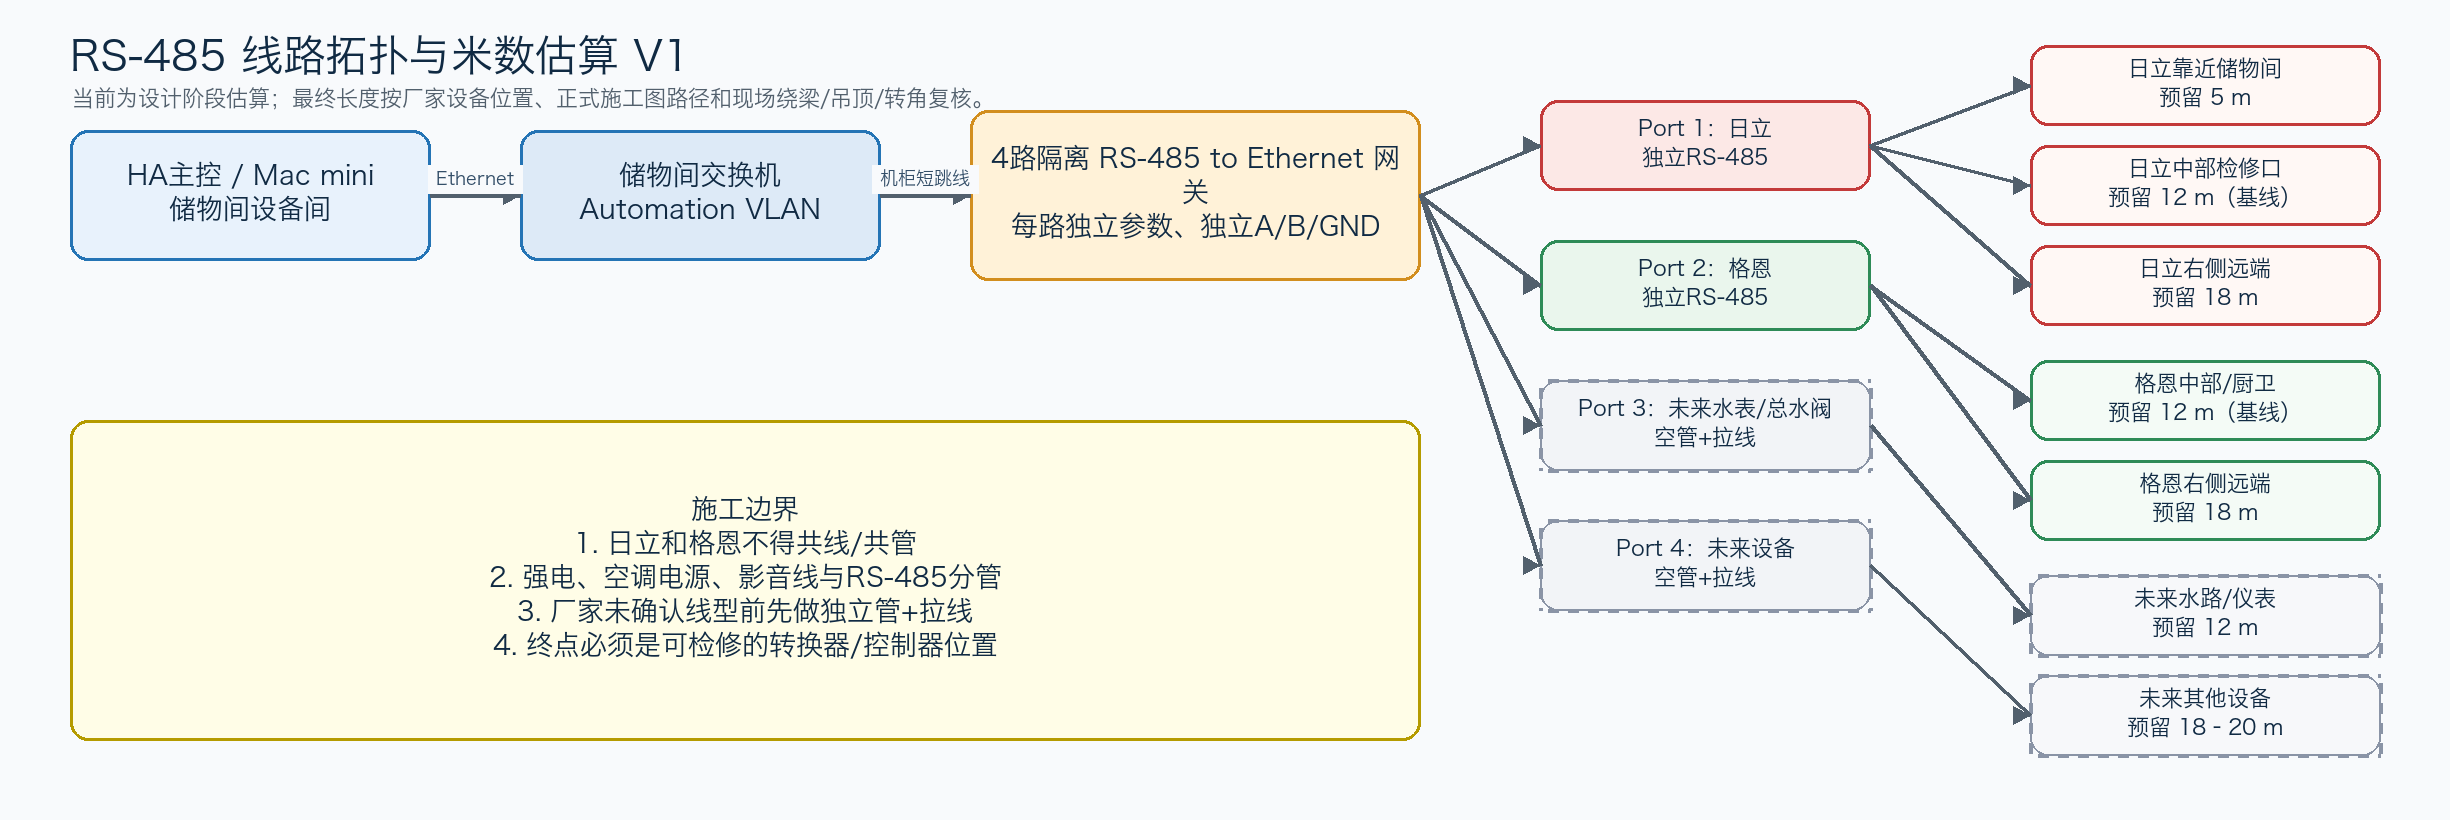
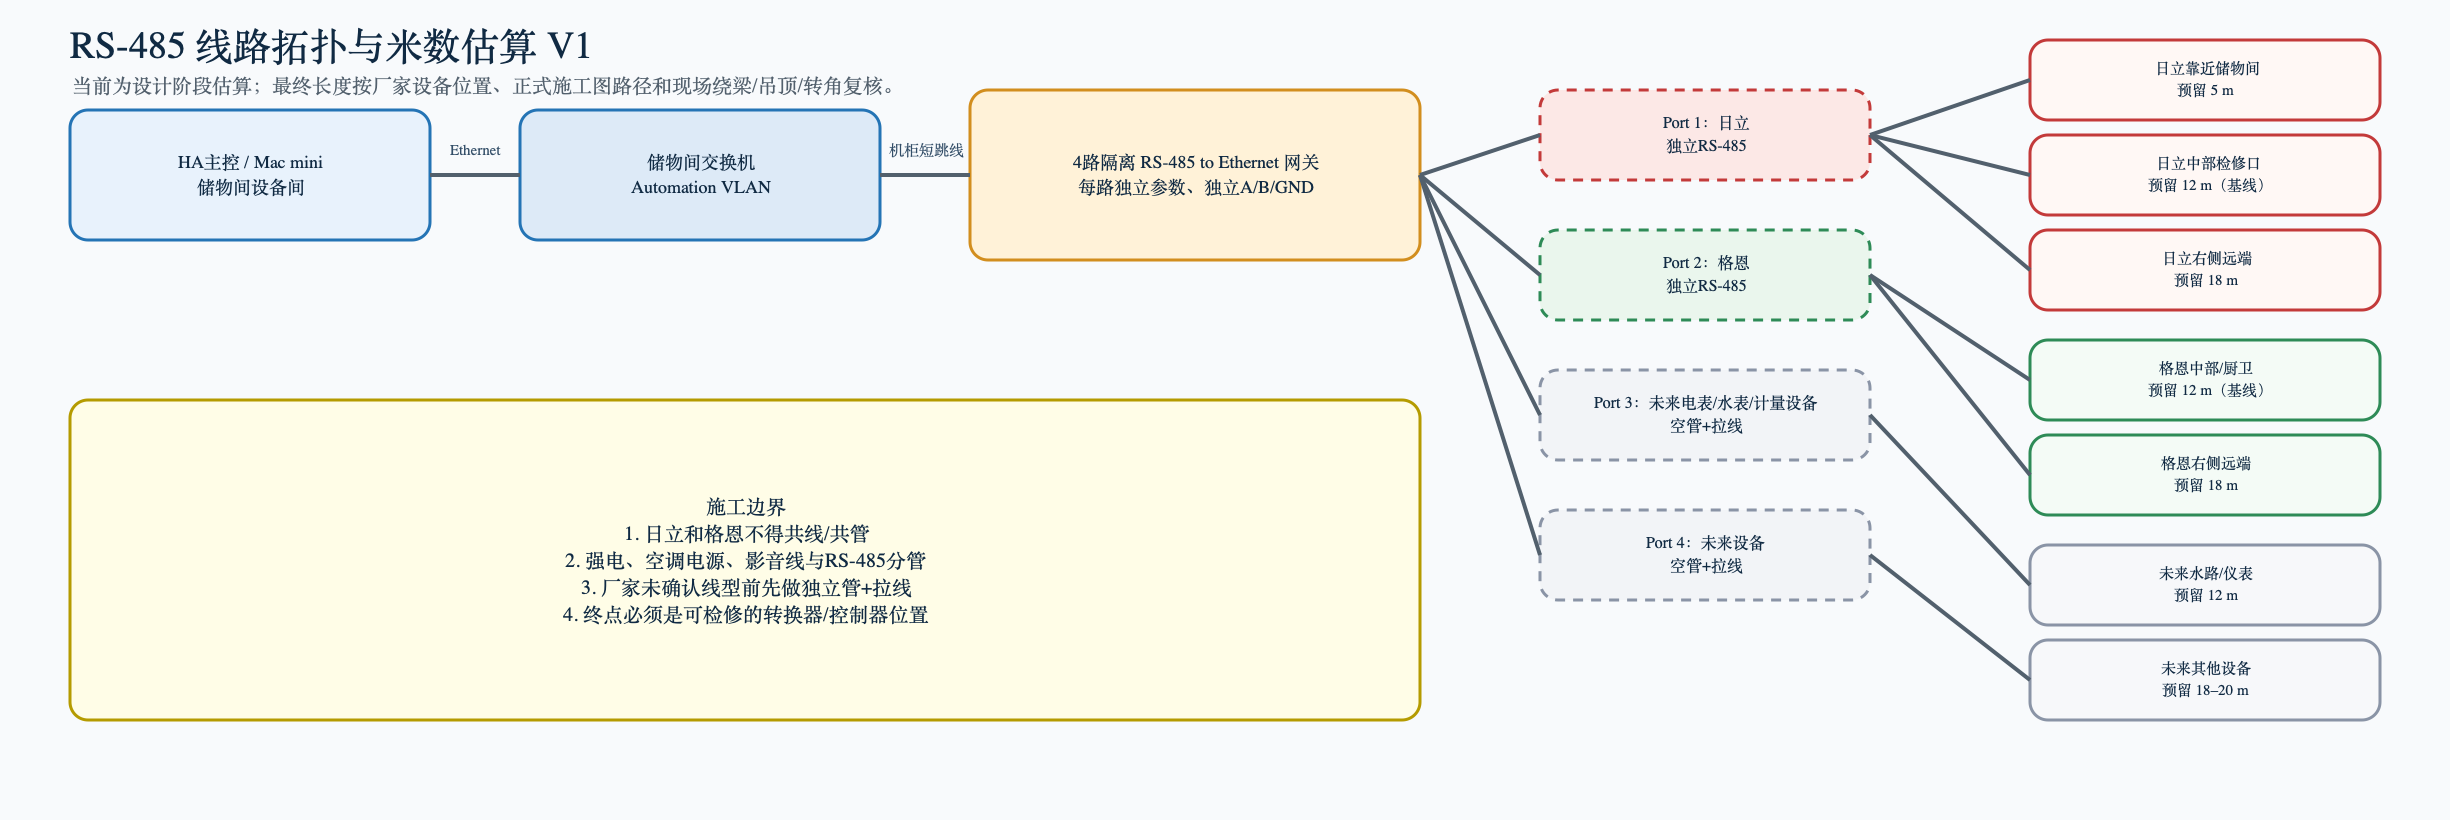
Clarify RS-485 meter reserve boundary

Changed region(s): [[0.031, 0.0305, 0.9927, 0.9451], [0.2171, 0.6098, 0.4033, 0.8232], [0.031, 0.8537, 0.5894, 0.9146]]

diff --git a/docs/current/RS485线路拓扑与米数估算_V1.md b/docs/current/RS485线路拓扑与米数估算_V1.md
@@ -18,7 +18,7 @@ Mac mini / Home Assistant
 4路隔离 RS-485 to Ethernet 网关
         ├─ Port 1：日立 Modbus/MiniModbus 转换器
         ├─ Port 2：格恩中央加湿控制器/主板
-        ├─ Port 3：未来电表/水表/总水阀预留
+        ├─ Port 3：未来 Modbus 电表/水表/计量设备预留
         └─ Port 4：未来大金/其他设备预留
 ```
 
@@ -66,7 +66,7 @@ RS-485 网关
 |---|---|---|---|---|---|
 | Port 1 | 日立中央空调 | 点表已取得；串口参数/地址/功能码待确认 | 储物间/新图衣帽间 RS-485 网关 | 日立协议转换器可检修位置 | 独立管线，只读调试优先 |
 | Port 2 | 格恩中央加湿 | 已知 RS-485 / Modbus RTU，9600 8N1；写功能码待确认 | 储物间/新图衣帽间 RS-485 网关 | 格恩控制器/主板可检修位置 | 独立管线，只读调试优先 |
-| 3 号口 | 未来电表/水表/总水阀 | 待确认 | 衣帽间 RS-485 网关 | 水路/仪表候选位置 | 先预留通道 |
+| 3 号口 | 未来 Modbus 电表/水表/计量设备 | 待确认 | 衣帽间 RS-485 网关 | 水路/仪表候选位置 | 先预留通道；电动总水阀不默认归入 RS-485 |
 | 4 号口 | 未来大金/其他设备 | 待确认 | 衣帽间 RS-485 网关 | 待定 | 先预留通道 |
 
 ## 4. 当前户型图下的米数估算
@@ -88,7 +88,7 @@ RS-485 网关
 | RS485-P1C | 日立转换器远端设备区 | 转换器若被要求放到右侧阳台/设备远端 | 需沿走廊或客厅横向到右侧，约 8–10 m 起 | 10–14 m | 18 m | 只有厂家要求时采用；不要与格恩共管共线 |
 | RS485-P2A | 格恩控制器近储物间/中部 | 控制器在储物间、厨房侧、卫生间或中部吊顶 | 储物间到中部/厨卫约 3–6 m | 5–9 m | 12 m | 当前建议按 12 m 管线余量保底 |
 | RS485-P2B | 格恩控制器远端 | 控制器若在 客厅阳台 或右侧设备区 | 横向到右侧约 8–10 m，再加竖向/绕行 | 10–15 m | 18 m | 需要格恩厂家确认控制器位置 |
-| RS485-P3 | 未来水表/总水阀 | 厨房/入户/水路设备候选点 | 储物间到厨房或入户约 3–7 m | 5–10 m | 12 m | 先预留空管，不急着穿最终线 |
+| RS485-P3 | 未来 Modbus 电表/水表/计量设备 | 厨房/入户/仪表候选点 | 储物间到厨房或入户约 3–7 m | 5–10 m | 12 m | 先预留空管，不急着穿最终线；电动总水阀另按强电/水路安全点位处理 |
 | RS485-P4 | 未来设备备用 | 大金/其他设备，位置未定 | 取右侧或中部服务位保守估算 | 10–15 m | 18–20 m | 只做预留管路和拉线 |
 
 ## 5. 我建议现在给设计师/施工队的口径

diff --git a/CHANGELOG.md b/CHANGELOG.md
@@ -1,5 +1,10 @@
 # CHANGELOG
 
+## RS-485 预留口径修正 - 2026-07-04
+
+- 将 RS-485 Port 3 从“未来水表/电表/水阀候选”修正为“未来 Modbus 电表/水表/计量设备候选”。
+- 明确电动总水阀默认按强电/水路安全点位预留电源、检修和手动操作空间，不默认接入 RS-485。
+
 ## 给设计师的点位落图输入 - 2026-07-04
 
 - 新增 `docs/current/给设计师的点位落图输入_V1.md`，把业主侧建议收敛为设计师可直接用于落图的输入。

diff --git a/docs/current/装修队施工交底清单_V1.md b/docs/current/装修队施工交底清单_V1.md
@@ -105,7 +105,7 @@
 
 - 日立转换器若靠近储物间，预留约 5 m；若在中部吊顶/检修口，按 12 m 预留；若在右侧远端设备区，按 18 m 预留。
 - 格恩控制器若在储物间/厨卫/中部服务区，按 12 m 预留；若在右侧远端设备区，按 18 m 预留。
-- 未来水表/总水阀预留通道按 12 m 空管+拉线考虑。
+- 未来 Modbus 电表/水表/计量设备预留通道按 12 m 空管+拉线考虑。电动总水阀默认按强电/水路安全点位预留电源、检修和手动操作空间，不默认接入 RS-485。
 - 未来设备预留通道按 18–20 m 空管+拉线考虑。
 - 上述为设计阶段估算，最终以厂家设备位置、正式施工图路径和现场绕梁/吊顶/转角复核为准。
 

diff --git a/inventory/rs485_channels.md b/inventory/rs485_channels.md
@@ -37,7 +37,7 @@
 - 1 号口日立转换器在右侧远端设备区：按 18 m 作为兜底。
 - 2 号口格恩中央加湿控制器在衣帽间/厨房/卫生间服务区附近：按 12 m 作为基线。
 - 2 号口格恩中央加湿控制器在右侧远端设备区：按 18 m 作为兜底。
-- 3 号口未来水表/水阀预留：预留 12 m 空管+拉线。
+- 3 号口未来 Modbus 电表/水表/计量设备预留：预留 12 m 空管+拉线。电动总水阀默认不归入 RS-485 通道，除非后续明确采购带 RS-485/Modbus 的阀门控制器。
 - 4 号口未来设备预留：预留 18-20 m 空管+拉线。
 
 以上为设计阶段估算。最终长度必须在正式施工图和现场绕梁、吊顶、转角复核后确定。